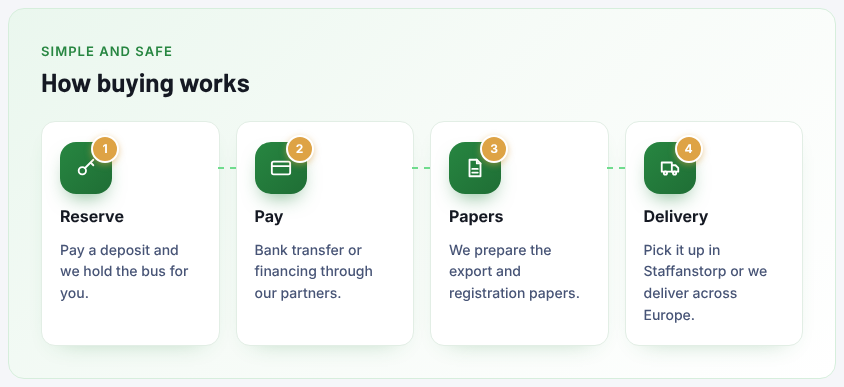
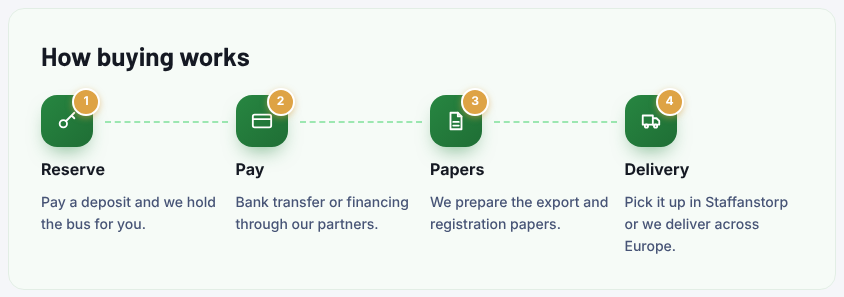
Truxco record: subtler how-buying-works
Claude-Session: https://claude.ai/code/session_01CJrfSMbtJkdqaRmDBKHX4E

diff --git a/truxco-design/website-v2/BusDetail.dc.html b/truxco-design/website-v2/BusDetail.dc.html
@@ -64,12 +64,12 @@ a{color:#3050A6}a:hover{color:#151923}
 .bd-how-num{font-family:'Barlow',sans-serif;font-weight:800;font-size:44px;line-height:1;color:transparent;-webkit-text-stroke:1px rgba(255,255,255,0.28);letter-spacing:-0.02em}
 .bd-step-ic{position:relative;width:52px;height:52px;border-radius:16px;background:linear-gradient(135deg,#278641,#1F6E35);display:flex;align-items:center;justify-content:center;box-shadow:0 10px 20px -8px rgba(39,134,65,0.6)}
 .bd-step-n{position:absolute;top:-7px;right:-7px;width:24px;height:24px;border-radius:50%;background:#DEA345;color:#FFFFFF;font-size:12px;font-weight:700;display:flex;align-items:center;justify-content:center;border:2px solid #FFFFFF;box-shadow:0 2px 6px rgba(222,163,69,0.5)}
-.bd-step-card{position:relative;display:flex;flex-direction:column;gap:10px;padding:20px 18px;background:#FFFFFF;border:1px solid #E2EEE5;border-radius:14px;box-shadow:0 10px 24px -18px rgba(39,134,65,0.45);transition:transform .2s,box-shadow .2s}.bd-step-card:hover{transform:translateY(-3px);box-shadow:0 16px 28px -16px rgba(39,134,65,0.5)}.bd-steps .bd-step-card:not(:last-child)::after{content:"";position:absolute;top:45px;right:-17px;width:18px;border-top:2px dashed #6FDC8D;z-index:1}
+.bd-steps li:not(:last-child)::after{content:"";position:absolute;top:26px;left:64px;right:-8px;border-top:2px dashed #9CE7B1}
 .bd-panel{animation:bdIn .5s ease both}@keyframes bdIn{from{opacity:0;transform:translateY(12px)}to{opacity:1;transform:none}}
 .bd-ghost:focus-visible,.bd-arrow:focus-visible,.bd-thumb:focus-visible,.bd-cta:focus-visible,.bd-cta2:focus-visible,.bd-round:focus-visible,.bd-tab:focus-visible,.bd-back:focus-visible{outline:2px solid #6FDC8D;outline-offset:3px}
 @media (max-height: 640px){.bd-buy{position:static!important}}
 @media (max-width: 1020px){.bd-grid{grid-template-columns:minmax(0,1fr)!important}.bd-buy{position:static!important}}
-@media (max-width: 760px){.bd-insp{grid-template-columns:minmax(0,1fr)!important}.bd-steps{grid-template-columns:repeat(2,minmax(0,1fr))!important}.bd-steps .bd-step-card::after{display:none}.bd-mbar{display:flex!important}.bd-how-steps{grid-template-columns:minmax(0,1fr)!important;gap:28px!important;padding-left:76px!important}.bd-how-line{top:28px!important;bottom:auto;left:27px!important;right:auto!important;width:2px!important;height:calc(100% - 140px)!important;background:linear-gradient(180deg,#278641,#6FDC8D 60%,rgba(255,255,255,0.25))!important}.bd-how-node{position:absolute!important;left:-76px;top:0}.bd-sgrid{grid-template-columns:minmax(0,1fr)!important;gap:28px}.bd-sgroup{padding:0!important;border-left:0!important}.bd-eqlist{grid-template-columns:repeat(2,minmax(0,1fr))!important}.bd-tabs{gap:28px}.bd-hls{grid-template-columns:minmax(0,1fr)!important}.bd-ov-label,.bd-vw{display:none!important}.bd-arrow{width:40px;height:40px}}
+@media (max-width: 760px){.bd-insp{grid-template-columns:minmax(0,1fr)!important}.bd-steps{grid-template-columns:repeat(2,minmax(0,1fr))!important}.bd-steps li::after{display:none}.bd-mbar{display:flex!important}.bd-how-steps{grid-template-columns:minmax(0,1fr)!important;gap:28px!important;padding-left:76px!important}.bd-how-line{top:28px!important;bottom:auto;left:27px!important;right:auto!important;width:2px!important;height:calc(100% - 140px)!important;background:linear-gradient(180deg,#278641,#6FDC8D 60%,rgba(255,255,255,0.25))!important}.bd-how-node{position:absolute!important;left:-76px;top:0}.bd-sgrid{grid-template-columns:minmax(0,1fr)!important;gap:28px}.bd-sgroup{padding:0!important;border-left:0!important}.bd-eqlist{grid-template-columns:repeat(2,minmax(0,1fr))!important}.bd-tabs{gap:28px}.bd-hls{grid-template-columns:minmax(0,1fr)!important}.bd-ov-label,.bd-vw{display:none!important}.bd-arrow{width:40px;height:40px}}
 @media (prefers-reduced-motion: reduce){.bd-panel{animation:none}.bd-arrow,.bd-cta,.bd-thumb{transition:none}}
 .sr-only{position:absolute;width:1px;height:1px;padding:0;margin:-1px;overflow:hidden;clip:rect(0,0,0,0);white-space:nowrap;border:0}
 .nv-desk{display:flex}.nv-burger{display:none}
@@ -318,9 +318,8 @@ a{color:#3050A6}a:hover{color:#151923}
 <div style="position: absolute; left: 14px; right: 14px; bottom: 14px; background: rgba(255,255,255,0.94); border-radius: 12px; padding: 12px 14px; display: flex; gap: 10px; align-items: center"><span style="flex: none; width: 10px; height: 10px; border-radius: 50%; background: #278641; box-shadow: 0 0 0 4px rgba(39,134,65,0.2)"></span><span style="font-size: 13px; color: #151923; font-weight: 600">Every bus is inspected before it is listed</span></div>
 </div>
 </div></section>
-<section id="delivery" class="bd-panel" style="background: linear-gradient(135deg, #EAF7EE 0%, #F6FBF7 45%, #FFFFFF 100%); border: 1px solid #D6EEDC; border-radius: 16px; padding: clamp(20px, 3vw, 32px); display: flex; flex-direction: column; gap: 24px; scroll-margin-top: 90px">
-<div style="display: flex; flex-direction: column; gap: 6px"><p style="margin: 0; font-size: 13px; font-weight: 600; letter-spacing: 0.08em; text-transform: uppercase; color: #278641">Simple and safe</p><h2 style="margin: 0; font-family: 'Barlow', sans-serif; font-weight: 700; font-size: 26px; line-height: 1.15; color: #151923">How buying works</h2></div>
-<ol class="bd-steps" style="list-style: none; margin: 0; padding: 0; display: grid; grid-template-columns: repeat(4, minmax(0, 1fr)); gap: 16px"><li class="bd-step-card"><span class="bd-step-ic"><svg aria-hidden="true" width="22" height="22" viewBox="0 0 24 24" fill="none" stroke="#FFFFFF" stroke-width="2" stroke-linecap="round" stroke-linejoin="round" style="flex: none"><circle cx="8" cy="15" r="4"></circle><path d="M11 12l9-9M17 6l3 3"></path></svg><span class="bd-step-n">1</span></span><strong style="font-size: 16px; color: #151923">Reserve</strong><span style="font-size: 14px; color: #475476; line-height: 1.55">Pay a deposit and we hold the bus for you.</span></li><li class="bd-step-card"><span class="bd-step-ic"><svg aria-hidden="true" width="22" height="22" viewBox="0 0 24 24" fill="none" stroke="#FFFFFF" stroke-width="2" stroke-linecap="round" stroke-linejoin="round" style="flex: none"><rect x="2" y="5" width="20" height="14" rx="2"></rect><path d="M2 10h20"></path></svg><span class="bd-step-n">2</span></span><strong style="font-size: 16px; color: #151923">Pay</strong><span style="font-size: 14px; color: #475476; line-height: 1.55">Bank transfer or financing through our partners.</span></li><li class="bd-step-card"><span class="bd-step-ic"><svg aria-hidden="true" width="22" height="22" viewBox="0 0 24 24" fill="none" stroke="#FFFFFF" stroke-width="2" stroke-linecap="round" stroke-linejoin="round" style="flex: none"><path d="M14 3H6v18h12V7z"></path><path d="M14 3v4h4M9 13h6M9 17h6"></path></svg><span class="bd-step-n">3</span></span><strong style="font-size: 16px; color: #151923">Papers</strong><span style="font-size: 14px; color: #475476; line-height: 1.55">We prepare the export and registration papers.</span></li><li class="bd-step-card"><span class="bd-step-ic"><svg aria-hidden="true" width="22" height="22" viewBox="0 0 24 24" fill="none" stroke="#FFFFFF" stroke-width="2" stroke-linecap="round" stroke-linejoin="round" style="flex: none"><path d="M3 6h11v10H3z"></path><path d="M14 9h4l3 3v4h-7"></path><circle cx="7" cy="17.5" r="1.8"></circle><circle cx="17" cy="17.5" r="1.8"></circle></svg><span class="bd-step-n">4</span></span><strong style="font-size: 16px; color: #151923">Delivery</strong><span style="font-size: 14px; color: #475476; line-height: 1.55">Pick it up in Staffanstorp or we deliver across Europe.</span></li></ol>
+<section id="delivery" class="bd-panel" style="background: #F6FBF7; border: 1px solid #E2EEE5; border-radius: 16px; padding: clamp(20px, 3vw, 32px); display: flex; flex-direction: column; gap: 24px; scroll-margin-top: 90px"><h2 style="margin: 0; font-family: 'Barlow', sans-serif; font-weight: 700; font-size: 26px; line-height: 1.15; color: #151923">How buying works</h2>
+<ol class="bd-steps" style="list-style: none; margin: 0; padding: 0; display: grid; grid-template-columns: repeat(4, minmax(0, 1fr)); gap: 16px"><li style="display: flex; flex-direction: column; gap: 10px; position: relative"><span class="bd-step-ic"><svg aria-hidden="true" width="22" height="22" viewBox="0 0 24 24" fill="none" stroke="#FFFFFF" stroke-width="2" stroke-linecap="round" stroke-linejoin="round" style="flex: none"><circle cx="8" cy="15" r="4"></circle><path d="M11 12l9-9M17 6l3 3"></path></svg><span class="bd-step-n">1</span></span><strong style="font-size: 16px; color: #151923">Reserve</strong><span style="font-size: 14px; color: #475476; line-height: 1.55">Pay a deposit and we hold the bus for you.</span></li><li style="display: flex; flex-direction: column; gap: 10px; position: relative"><span class="bd-step-ic"><svg aria-hidden="true" width="22" height="22" viewBox="0 0 24 24" fill="none" stroke="#FFFFFF" stroke-width="2" stroke-linecap="round" stroke-linejoin="round" style="flex: none"><rect x="2" y="5" width="20" height="14" rx="2"></rect><path d="M2 10h20"></path></svg><span class="bd-step-n">2</span></span><strong style="font-size: 16px; color: #151923">Pay</strong><span style="font-size: 14px; color: #475476; line-height: 1.55">Bank transfer or financing through our partners.</span></li><li style="display: flex; flex-direction: column; gap: 10px; position: relative"><span class="bd-step-ic"><svg aria-hidden="true" width="22" height="22" viewBox="0 0 24 24" fill="none" stroke="#FFFFFF" stroke-width="2" stroke-linecap="round" stroke-linejoin="round" style="flex: none"><path d="M14 3H6v18h12V7z"></path><path d="M14 3v4h4M9 13h6M9 17h6"></path></svg><span class="bd-step-n">3</span></span><strong style="font-size: 16px; color: #151923">Papers</strong><span style="font-size: 14px; color: #475476; line-height: 1.55">We prepare the export and registration papers.</span></li><li style="display: flex; flex-direction: column; gap: 10px; position: relative"><span class="bd-step-ic"><svg aria-hidden="true" width="22" height="22" viewBox="0 0 24 24" fill="none" stroke="#FFFFFF" stroke-width="2" stroke-linecap="round" stroke-linejoin="round" style="flex: none"><path d="M3 6h11v10H3z"></path><path d="M14 9h4l3 3v4h-7"></path><circle cx="7" cy="17.5" r="1.8"></circle><circle cx="17" cy="17.5" r="1.8"></circle></svg><span class="bd-step-n">4</span></span><strong style="font-size: 16px; color: #151923">Delivery</strong><span style="font-size: 14px; color: #475476; line-height: 1.55">Pick it up in Staffanstorp or we deliver across Europe.</span></li></ol>
 </section>
 </div>
 <aside class="bd-buy" aria-label="Price and contact" style="align-self: start; position: sticky; top: 16px">

diff --git a/truxco-design/DESIGN-NOTES.md b/truxco-design/DESIGN-NOTES.md
@@ -155,3 +155,4 @@ Second artboard "UsedBuses.dc.html" in the V2 preview (https://claude.ai/artifac
 - Contact box: languages line moved 4px down from the name; Call/Email buttons moved down (box gap 16px to 22px).
 - "How buying works" redesigned as a dark navy feature panel: green glow + faint dot pattern, eyebrow "From our yard to your depot", horizontal timeline with 56px green icon nodes (last node white = destination) on a green gradient line, big outlined numbers 01–04, white titles, light-grey text; bottom bar "Buying from abroad? We help you with every step." + green "Start with an enquiry". Mobile: vertical timeline.
 - "How buying works": the dark version was reverted at the user's request (no black). It is back to the light design with more colour: soft green gradient background with a green border, a "Simple and safe" eyebrow, each step in a white card with a green shadow and a lift on hover, green gradient icon tiles, amber number badges, and dashed green connectors between the cards.
+- "How buying works" toned down to the original layout with a light touch of colour: very light green panel (#F6FBF7, border #E2EEE5), amber number badges, light-green dashed connectors; no cards, eyebrow or gradient.
